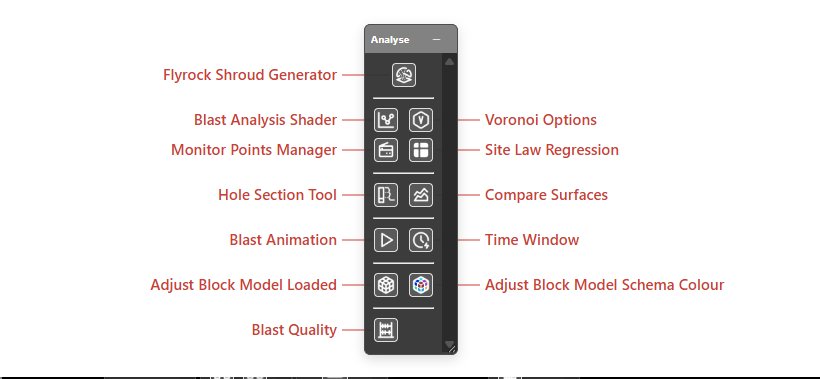
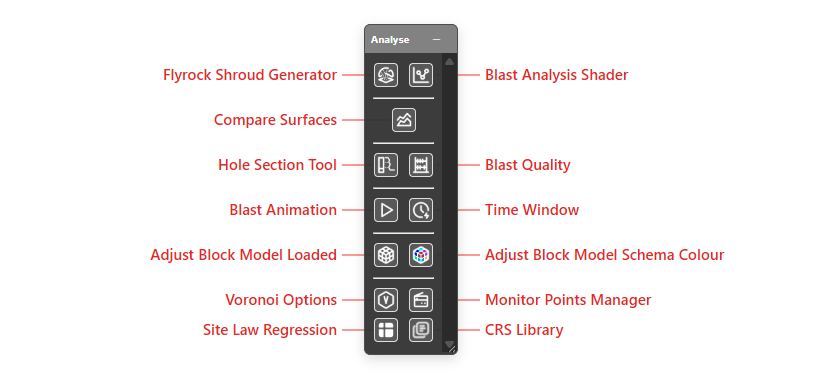
Docs: Analyse toolbar regrouped (new labelled screenshot), CRS Library screenshots
- AnalyseToolbar.png regenerated from the live toolbar (callout script): the
  new order and the CRS Library button.
- Analyse Toolbar page: buttons listed in the toolbar's six groups; two new
  questions (survey vs design, files on another grid).
- CRS Library page: the dialog, the picker with a Library projection, and the
  Save to Library? prompt. Example projections only - no site grids.
- Transform Import: the picker screenshot. First Blast: the shader's real name.

diff --git a/analysis/analyse-toolbar.md b/analysis/analyse-toolbar.md
@@ -11,23 +11,51 @@ open it from its tab on the right edge of the window.
 
 ## The buttons
 
-Hover over a button to see its name.
+Hover over a button to see its name. The buttons sit in six groups, separated by a line,
+listed here from the top of the toolbar down.
+
+### Blast models
 
 | Button | What it does | Guide |
 |---|---|---|
 | **Flyrock Shroud Generator** | Builds a 3D flyrock envelope over the blast, from one of four published models | [Flyrock Modelling](flyrock.md) |
 | **Blast Analysis Shader** | Paints a vibration, damage, pressure or powder-factor model over the ground | [Blast Analysis Shader](overview.md) |
+
+### Surfaces
+
+| Button | What it does | Guide |
+|---|---|---|
 | **Compare Surfaces** | Colours a measured surface by its distance from a design surface | [Compare Surfaces](../surfaces/compare-surfaces.md) |
+
+### Holes as drilled
+
+| Button | What it does | Guide |
+|---|---|---|
 | **Hole Section Tool** | A section through one hole, showing its burden to the face, with staged edits | [Hole Section View](../reference/section-views.md#hole-section-view) |
 | **Blast Quality** | The spread of any hole attribute, and holes filed in the wrong row | [Blast Quality](blast-quality.md) |
+
+### Timing
+
+| Button | What it does | Guide |
+|---|---|---|
 | **Blast Animation** | Plays the firing sequence back in time | [Blast Animation](blast-animation.md) |
 | **Time Window** | Timing and vibration analysis — histograms, intervals, spectrum, waveform synthesis, detune and constrain | [Time Window](time-window.md) |
-| **Adjust Block Model Loaded** | Changes how the loaded block model is drawn | [The Load Block Model Dialog](../block-models/load-block-model-dialog.md) |
+
+### Block models
+
+| Button | What it does | Guide |
+|---|---|---|
+| **Adjust Block Model Loaded** | Changes how the loaded block model is drawn | [Below](#adjust-block-model-loaded) |
 | **Adjust Block Model Schema Colour** | Manages the named colour schemas for block-model attributes | [Below](#adjust-block-model-schema-colour) |
+
+### Vibration and libraries
+
+| Button | What it does | Guide |
+|---|---|---|
 | **Voronoi Options** | Sets up the Voronoi cells — what they show, the area basis, the legend and the PPV modes | [Voronoi Cells](voronoi.md) |
 | **Monitor Points Manager** | Adds and edits vibration monitors and the seed waveform library | [Monitor Points & Seed Library](monitor-points.md) |
-| **Site Law Regression — log-log PPV vs Scaled Distance** | Fits your site law from monitoring records and applies it to a monitor | [Site Law Regression](site-law-regression.md) |
-| **CRS Library — saved projections** | Keeps your site's coordinate systems — `.prj`, WKT, Proj4, EPSG — for every import and export dialog | [CRS Library](crs-library.md) |
+| **Site Law Regression** | Fits your site law (log-log PPV against scaled distance) from monitoring records and applies it to a monitor | [Site Law Regression](site-law-regression.md) |
+| **CRS Library** | Keeps your site's coordinate systems — `.prj`, WKT, Proj4, EPSG — for every import and export dialog | [CRS Library](crs-library.md) |
 
 ---
 
@@ -45,6 +73,8 @@ Hover over a button to see its name.
 | Do too many holes fire at once? | [Time Window](time-window.md) |
 | Does the firing run the way I designed it? | [Blast Animation](blast-animation.md) |
 | Are holes in the right rows, and is the drilling consistent? | [Blast Quality](blast-quality.md) |
+| How far is the survey from the design surface? | [Compare Surfaces](../surfaces/compare-surfaces.md) |
+| My file is on another grid — how do I bring it onto mine? | [CRS Library](crs-library.md), then [Transform Import](../importing/transform-import.md) |
 
 ---
 

diff --git a/analysis/crs-library.md b/analysis/crs-library.md
@@ -26,6 +26,9 @@ stored.
 Click **CRS Library — saved projections** on the **Analyse** toolbar. The dialog is
 **CRS Library**.
 
+![CRS Library dialog](../screenshots/CrsLibraryDialog.png)
+*One entry ticked for Export or Delete; the highlighted entry shows its definition below.*
+
 | Part | What it does |
 |---|---|
 | **Import** | Reads one or many projection files at once. Files that cannot be read are listed in an amber banner |
@@ -43,6 +46,9 @@ Every dialog that asks for a coordinate system uses the same picker. A transform
 export asks two questions: **Select current projection** (the system the data is in now)
 and **Select destination projection** (the system you want).
 
+![KAD Transform Export with a Library projection chosen](../screenshots/CrsPickerLibrary.png)
+*The current projection comes from the Library; the destination is an EPSG code.*
+
 | Control | What it does |
 |---|---|
 | **Show:** Southern UTM / Northern UTM / Non-UTM | Filters the **EPSG Code** list |
@@ -56,6 +62,8 @@ and **Select destination projection** (the system you want).
 
 If you used a custom definition that is not in the Library, Kirra asks **Save to Library?**
 when you press the dialog's OK button:
+
+![Save to Library? prompt](../screenshots/CrsSaveToLibraryPrompt.png)
 
 - **Save** — type a **Projection Name** and save. The dialog remembers it by name next time.
 - **Forget** — use it this once. Nothing is kept.

diff --git a/getting-started/first-blast.md b/getting-started/first-blast.md
@@ -520,7 +520,7 @@ You now have a complete blast: pattern from template, charged holes, timing casc
 
 | Goal | Where |
 |------|-------|
-| **Run vibration / PPV analysis** | [Analyse Toolbar](../analysis/analyse-toolbar.md) → Blast Shader Tools, Voronoi Options |
+| **Run vibration / PPV analysis** | [Analyse Toolbar](../analysis/analyse-toolbar.md) → Blast Analysis Shader, Voronoi Options |
 | **Frequency-domain / detune analysis** | [Time Window Dialog](../analysis/time-window.md) (IDI, Spectrum, Forward Array, Detune, Constrain) |
 | **Flyrock shroud** | [Flyrock Modelling](../analysis/flyrock.md) |
 | **Save the project** | **Import Export Print** menu (top bar) → **Export**, or App Navigation panel → **File Management → Export** → **Kirra Application Project** (.kap) |

diff --git a/importing/transform-import.md b/importing/transform-import.md
@@ -49,6 +49,10 @@ Switching between **Standard** and **Transform** returns you to the first tab.
 Kirra remembers the last pair you used for each format, so for a regular survey you only
 choose them once. That memory travels in your KAP and KAT files, with the Library.
 
+![Choosing projections from the CRS Library](../screenshots/CrsPickerLibrary.png)
+*The same picker appears in every transform import and export. The three icons load a
+file, save to the Library, and choose from the Library.*
+
 | Row | After the transform |
 |---|---|
 | **OBJ — Transform** | The OBJ imports as a surface. Select its `.mtl` and images too to keep the texture. Only `.obj` — not GLTF or GLB |
